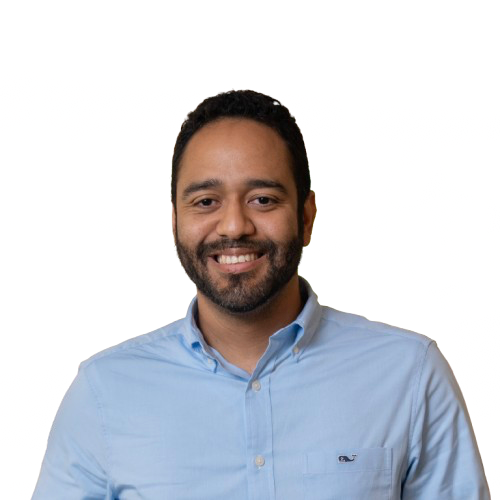
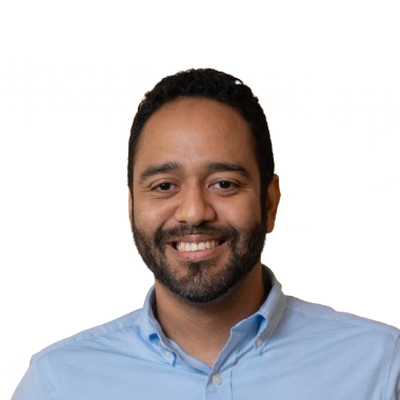
Completa la ficha de Abdel Martínez y recorta las fotos de los dos ponentes
- Perfil `abdel` con nombre, cargo, organización, reseña y enlaces de su
  correo del 14 oct (antes tenía un cargo distinto y la reseña vacía).
- Tarjeta de la keynote de apertura: título, resumen, biografía y data-search.
- Fotos de Abdel y Juan Camilo recortadas a 400×400 y centradas en el rostro.
- Sube la versión de agenda.js para que se descargue de nuevo.

Claude-Session: https://claude.ai/code/session_01Mb5K6uvhoqEjA8Y32zAoNP

Changed region(s): [[0.03, 0.15, 1.0, 1.0], [0.15, 0.96, 0.27, 1.0]]

diff --git a/2026/agenda.html b/2026/agenda.html
@@ -112,7 +112,7 @@
                     </header>
                     <ol class="agenda-list">
                         <li class="agenda-item agenda-item--event" data-search="apertura jornada presencial"><div class="session-card session-opening"><div class="agenda-time"><time datetime="2026-10-23T09:00:00-05:00">9:00</time><span>a. m.</span><small>15 min</small></div><div class="agenda-session"><i class="fa-solid fa-flag agenda-event-icon" aria-hidden="true"></i><h3 class="session-title">Apertura de la jornada presencial</h3></div></div></li>
-                        <li class="agenda-item" data-session-id="abdel" data-level="todos" data-track="invitados" data-search="keynote apertura abdel martínez"><div class="session-card session-keynote"><div class="agenda-time"><time datetime="2026-10-23T09:15:00-05:00">9:15</time><span>a. m.</span><small>40 min</small></div><article class="agenda-session"><div class="agenda-session-top"><div><span class="session-badge">Keynote de apertura</span><h3 class="session-title">Keynote de Abdel Martínez</h3></div></div><p class="session-speaker">Abdel Martínez</p><p class="agenda-track">Próximamente...</p><details class="agenda-abstract"><summary>Resumen de la charla</summary><p>Próximamente...</p></details></article></div></li>
+                        <li class="agenda-item" data-session-id="abdel" data-level="todos" data-track="invitados" data-search="keynote apertura abdel gadiel martínez lassonde agentes de guardia ia inteligencia artificial producción observabilidad python solusoft"><div class="session-card session-keynote"><div class="agenda-time"><time datetime="2026-10-23T09:15:00-05:00">9:15</time><span>a. m.</span><small>40 min</small></div><article class="agenda-session"><div class="agenda-session-top"><div><span class="session-badge">Keynote de apertura</span><h3 class="session-title">Agentes de guardia: lo que pasa cuando la IA atiende producción a las 3 a.m.</h3></div></div><p class="session-speaker">Abdel Martínez</p><p class="agenda-track">Próximamente...</p><details class="agenda-abstract"><summary>Resumen y biografía</summary><p>Los agentes de IA pasaron de las demos a los centros de operaciones. En esta keynote, Abdel cuenta qué ocurre cuando se les da acceso real a bases de datos, métricas y logs de sistemas críticos: dónde aciertan, dónde se equivocan con total seguridad y por qué el humano sigue siendo indispensable. Con ejemplos en Python y casos reales de servicios gestionados en Panamá, el público se llevará un marco práctico para construir agentes útiles, observables y seguros, sin caer en el hype.</p><p class="session-bio">Abdel Gadiel Martínez Lassonde es Director de Soluciones y Servicios Tecnológicos en Solusoft, empresa panameña de servicios de ingeniería de datos con más de 30 años de trayectoria. Lidera equipos de consultores que dan soporte a clientes de banca, gobierno, salud, retail y telecomunicaciones, y es el arquitecto principal de Holos, la plataforma de observabilidad de Solusoft. Tiene amplia experiencia como DBA, ingeniero DevOps y arquitecto cloud, y cuenta con múltiples certificaciones en todas estas tecnologías. Es vicepresidente de la Fundación de Tecnologías Libres de Panamá y docente en la Universidad Interamericana de Panamá, UNICyT y CEAGRO AIP, donde comparte su experiencia con nuevas generaciones de profesionales.</p></details></article></div></li>
                         <li class="agenda-item" data-session-id="robotica" data-level="todos" data-track="robotica" data-search="python robótica robots móviles ros2 enjambre"><div class="session-card"><div class="agenda-time"><time datetime="2026-10-23T09:58:00-05:00">9:58</time><span>a. m.</span><small>25 min</small></div><article class="agenda-session"><div class="agenda-session-top"><div><span class="session-badge">Todos los públicos</span><h3 class="session-title">Python y Robotica</h3></div><button class="agenda-favorite" type="button" data-favorite="robotica" aria-pressed="false" aria-label="Guardar Python y Robotica en favoritos" title="Guardar en favoritos"><i class="fa-regular fa-star" aria-hidden="true"></i></button></div><p class="session-speaker">Conferencista por confirmar</p><p class="agenda-track">Robótica</p><details class="agenda-abstract"><summary>Resumen de la charla</summary><p>Aplicación de un enjambre de robots móviles con ROS 2 y Python. Se presenta una arquitectura modular con nodos, tópicos, servicios y acciones para coordinar robots en simulaciones y prepararlos para el mundo físico.</p></details></article></div></li>
                         <li class="agenda-item" data-session-id="async" data-level="intermedio" data-track="concurrencia" data-search="async await asincronismo paralelismo python"><div class="session-card"><div class="agenda-time"><time datetime="2026-10-23T10:26:00-05:00">10:26</time><span>a. m.</span><small>25 min</small></div><article class="agenda-session"><div class="agenda-session-top"><div><span class="session-badge">Intermedio</span><h3 class="session-title">Cómo entender async / await sin usar async / await</h3></div><button class="agenda-favorite" type="button" data-favorite="async" aria-pressed="false" aria-label="Guardar Cómo entender async / await sin usar async / await en favoritos" title="Guardar en favoritos"><i class="fa-regular fa-star" aria-hidden="true"></i></button></div><p class="session-speaker">Conferencista por confirmar</p><p class="agenda-track">Rendimiento y concurrencia</p><details class="agenda-abstract"><summary>Resumen de la charla</summary><p>Una introducción a qué son el paralelismo y el asincronismo en Python y cómo funcionan.</p></details></article></div></li>
                         <li class="agenda-item" data-session-id="pydantic-ai" data-level="intermedio" data-track="agentes" data-search="agentes ia pydantic ai fastapi python producción testing"><div class="session-card"><div class="agenda-time"><time datetime="2026-10-23T10:54:00-05:00">10:54</time><span>a. m.</span><small>25 min</small></div><article class="agenda-session"><div class="agenda-session-top"><div><span class="session-badge">Intermedio</span><h3 class="session-title">Agentes de IA con Pydantic AI: De cero a producción con menos magia y más ingeniería</h3></div><button class="agenda-favorite" type="button" data-favorite="pydantic-ai" aria-pressed="false" aria-label="Guardar Agentes de IA con Pydantic AI en favoritos" title="Guardar en favoritos"><i class="fa-regular fa-star" aria-hidden="true"></i></button></div><p class="session-speaker">Conferencista por confirmar</p><p class="agenda-track">IA y agentes</p><details class="agenda-abstract"><summary>Resumen de la charla</summary><p>Diseño de agentes tipados con Pydantic AI: herramientas, dependencias, integración con FastAPI, streaming y pruebas deterministas para crear sistemas modulares y testeables.</p></details></article></div></li>
@@ -158,7 +158,7 @@
     </footer>
 
     <script src="js/main.js"></script>
-    <script src="js/agenda.js?v=20261012"></script>
+    <script src="js/agenda.js?v=20261014"></script>
 </body>
 
 </html>

diff --git a/2026/js/agenda.js b/2026/js/agenda.js
@@ -11,7 +11,7 @@ document.addEventListener('DOMContentLoaded', function () {
   /* Campos opcionales por perfil: role, org, country y countryCode (valor o lista), photo (ruta o lista de rutas) y links.
      Lo que no exista simplemente no se muestra. */
   const speakerProfiles = {
-    abdel: { name: 'Abdel Martínez', country: 'Panamá', countryCode: 'PA', bio: '', photo: 'img/conferencistas/AbdelMartinez.png', links: [] },
+    abdel: { name: 'Abdel Gadiel Martínez Lassonde', role: 'Director de Soluciones y Servicios Tecnológicos', org: 'Solusoft, S.A.', country: 'Panamá', countryCode: 'PA', bio: 'Abdel Gadiel Martínez Lassonde es Director de Soluciones y Servicios Tecnológicos en Solusoft, empresa panameña de servicios de ingeniería de datos con más de 30 años de trayectoria. Lidera equipos de consultores que dan soporte a clientes de banca, gobierno, salud, retail y telecomunicaciones, y es el arquitecto principal de Holos, la plataforma de observabilidad de Solusoft. Tiene amplia experiencia como DBA, ingeniero DevOps y arquitecto cloud, y cuenta con múltiples certificaciones en todas estas tecnologías. Es vicepresidente de la Fundación de Tecnologías Libres de Panamá y docente en la Universidad Interamericana de Panamá, UNICyT y CEAGRO AIP, donde comparte su experiencia con nuevas generaciones de profesionales.', photo: 'img/conferencistas/AbdelMartinez.png', links: [{ label: 'LinkedIn', url: 'https://linkedin.com/in/abdelgmartinezl' }, { label: 'Sitio web', url: 'https://www.solusoft.com' }, { label: 'Holos', url: 'https://www.holosmonitor.com' }] },
     http3: { name: 'Stuti Jain y Palak Jain', org: 'Adobe · HSBC', country: 'India', countryCode: 'IN', bio: 'Stuti Jain es SDE II en Adobe y ha presentado en PyCon Indonesia y PyCon Korea. Palak Jain es ingeniera de software en HSBC, con experiencia en sistemas backend y aplicaciones distribuidas con Python; también ha presentado en PyCon Indonesia y PyCon Korea.', photo: ['img/conferencistas/Stuti Jain.png', 'img/conferencistas/Palak Jain.png'], links: [{ label: 'Stuti Jain en LinkedIn', url: 'https://linkedin.com/in/stuti-jain-98630a197' }, { label: 'Palak Jain en LinkedIn', url: 'https://linkedin.com/in/palak-jain-980622145' }] },
     uv: { name: 'David Jonathan Sol Llaven', role: 'Cloud Architect', org: 'Caylent', country: 'México', countryCode: 'MX', bio: 'Cloud Architect en Caylent; ayuda a organizar PythonCDMX y Ajolotes en la Nube (AWS).', photo: 'img/conferencistas/DavidSolCaylent.png', links: [{ label: 'LinkedIn', url: 'https://linkedin.com/in/soldavidcloud' }] },
     pypi: { name: 'Renzo Caceres Rossi', role: 'Especialista en R y Python', country: 'Perú', countryCode: 'PE', bio: 'Especialista en R y Python, creador de más de 30 librerías en R y 10 en Python para ciencia de datos. Ha sido ponente en PyDay Chile 2022 y PyCon Bolivia 2022.', photo: 'img/conferencistas/RENZOCACERESROSSI.png', links: [{ label: 'LinkedIn', url: 'https://linkedin.com/in/andrescaceresrossi' }] },
